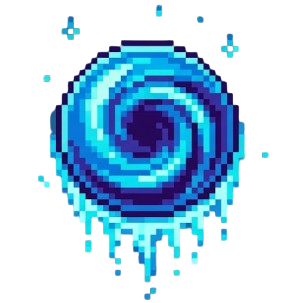
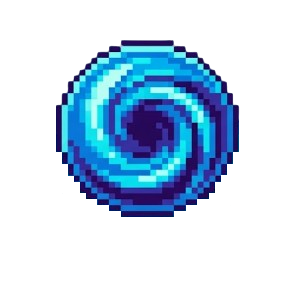
Stacked Armory: iconita noua (upgrade_46) + arta noua pentru gema xp2
Icon upgrade_37 -> upgrade_46 in levelup si codex. Arta xp2 inlocuita de
Razvan (orb albastru in spirala). Ambele imagini reimportate ca sa se
incarce la rulare directa. Verificat vizual.

diff --git a/CLAUDE.md b/CLAUDE.md
@@ -13,6 +13,16 @@ Quick rules:
 
 ---
 
+## Session log — 2026-07-20 (iconiță nouă Stacked Armory + artă nouă xp2)
+
+**Cerut de Răzvan:** iconița Stacked Armory → `upgrade_46.png`; separat, a schimbat el arta gemei xp2 (`xp/xp2.png`, acum un orb albastru în spirală).
+
+**Făcut:** icon `upgrade_37.png` → `upgrade_46.png` în `levelup.gd` și în codex (injectat base64, republicat). `upgrade_37` nu mai e referit de niciun item — iconița veche rămâne în `ICONS` din codex, nefolosită dar inofensivă.
+
+**Reimportate AMBELE imagini** (`--headless --import`) — pasul ușor de uitat: la o rulare directă (nu din editor) texturile noi/înlocuite trebuie importate întâi, altfel `load()` crapă cu „No loader found". Verificat: `xp2` se încarcă fără eroare, iconița Stacked Armory apare pe card (butoiul cu arme), gemele xp2 sunt culese și dau XP normal.
+
+---
+
 ## Session log — 2026-07-20 (item nou: Duridama — inamici auriți, mecanică în 2 lovituri)
 
 **Cerut de Răzvan:** `upgrade_45` Duridama (Legendary) — 1% șansă la lovire să facă inamicul auriu (overlay auriu + îngheață exact în cadrul lovit); după ce lovești un inamic deja auriu, moare instant și lasă 2× XP.